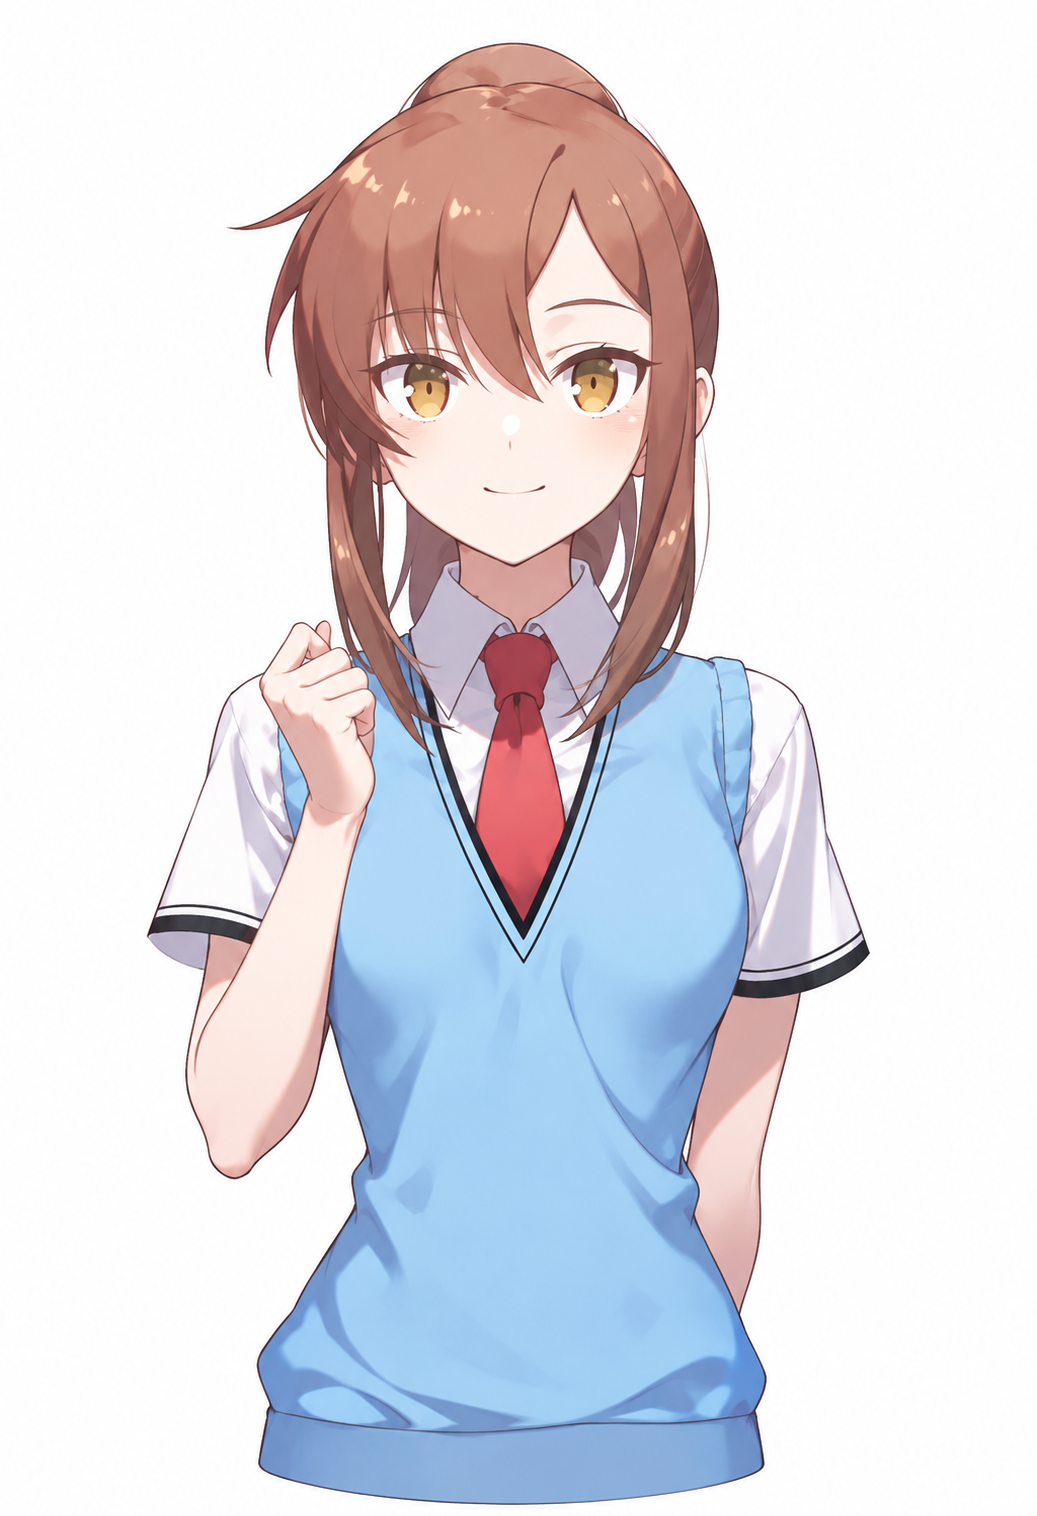
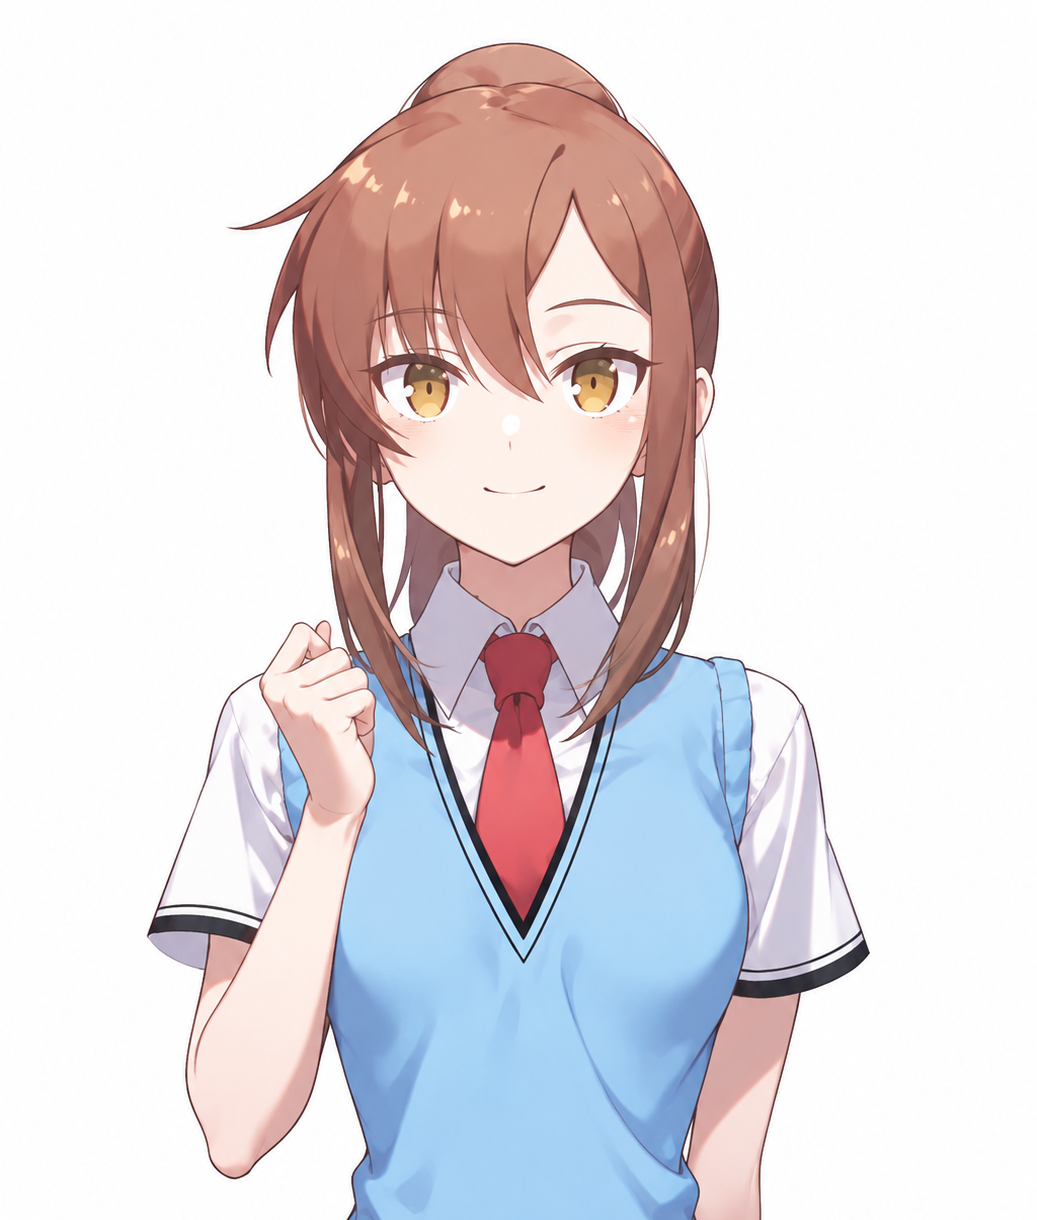
Update 青山七海 default portrait

diff --git a/images/portraits/sakurasou/aoyama-nanami/README.md b/images/portraits/sakurasou/aoyama-nanami/README.md
@@ -1,9 +1,9 @@
 # 青山七海 · 常规立绘
 
 - 当前文件：[default.png](default.png)。
-- 用户选定原图：`codex-clipboard-d780c416-bd97-47dc-b082-4c6dc35c14ea.png`。
-- 尺寸：1037 × 1516；大小：1,523,093 字节。
[1 lines of base64/hex data omitted]
+- 用户选定原图：`822-nanami-waist-crop-v1-20260914.png`。
+- 尺寸：1037 × 1220；大小：939,256 字节。
[1 lines of base64/hex data omitted]
 - PNG 模型记录：未知。
 - 可读取的生成参数：seed 未知；steps 未知；scale 未知；cfg_rescale 未知；sampler 未知；noise_schedule 未知。
 - 原图字节及内嵌数据完整保留，没有裁切、缩放、抠图或重新编码。
